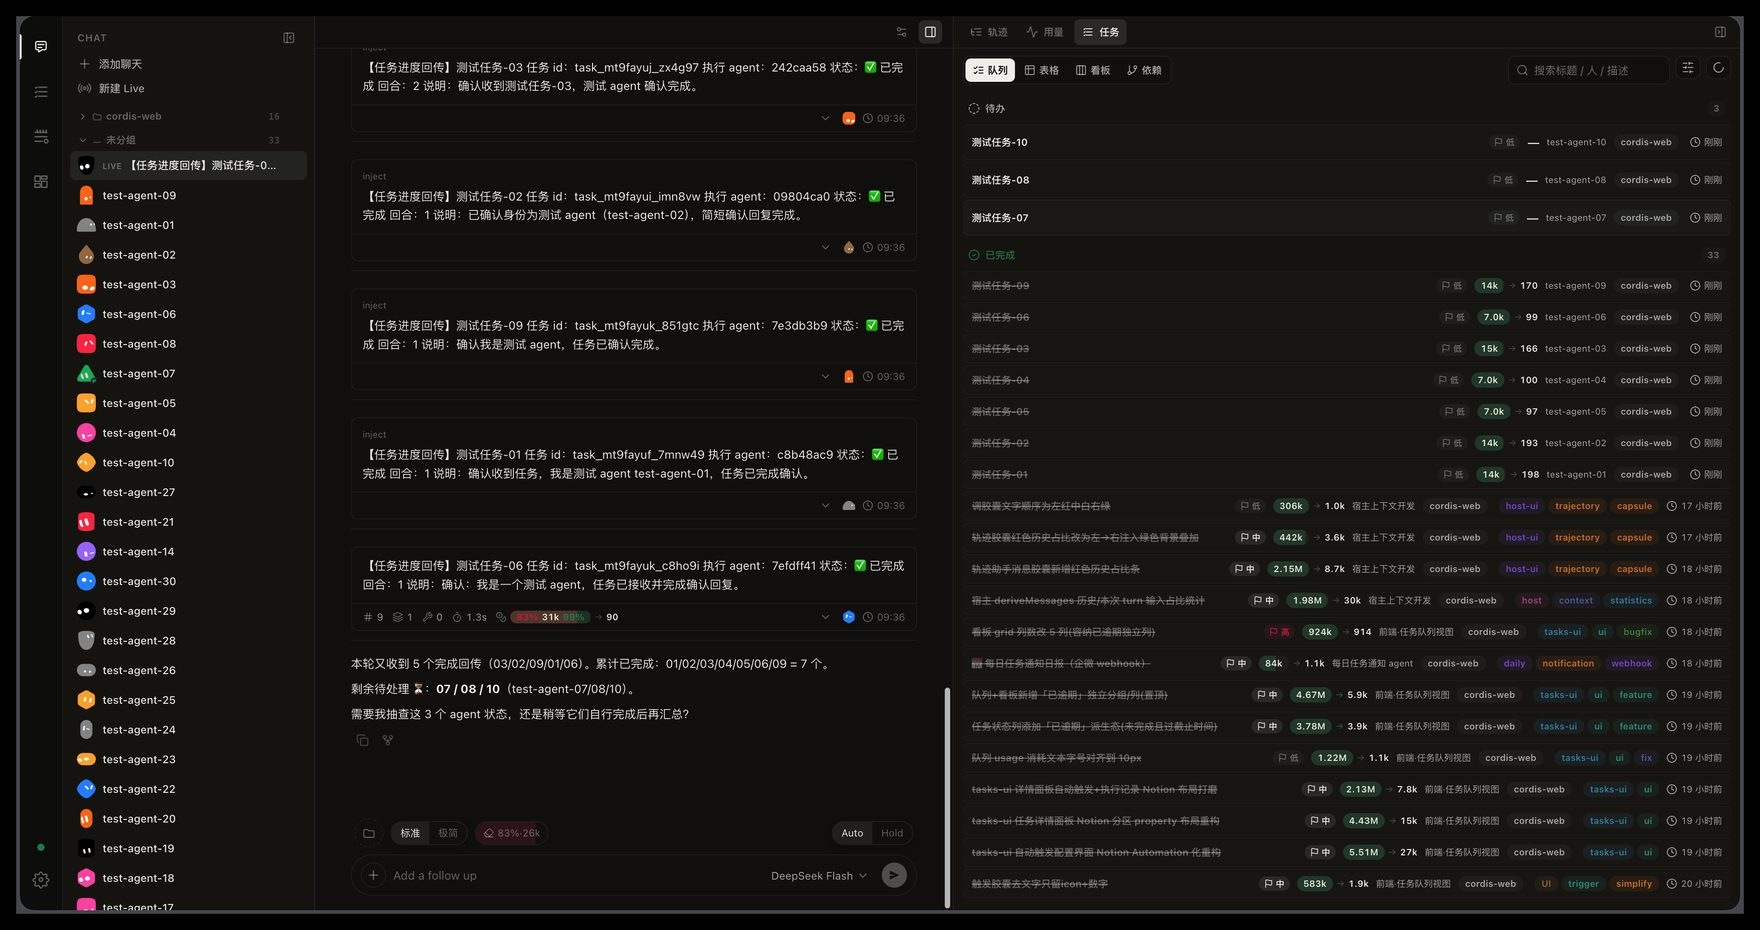
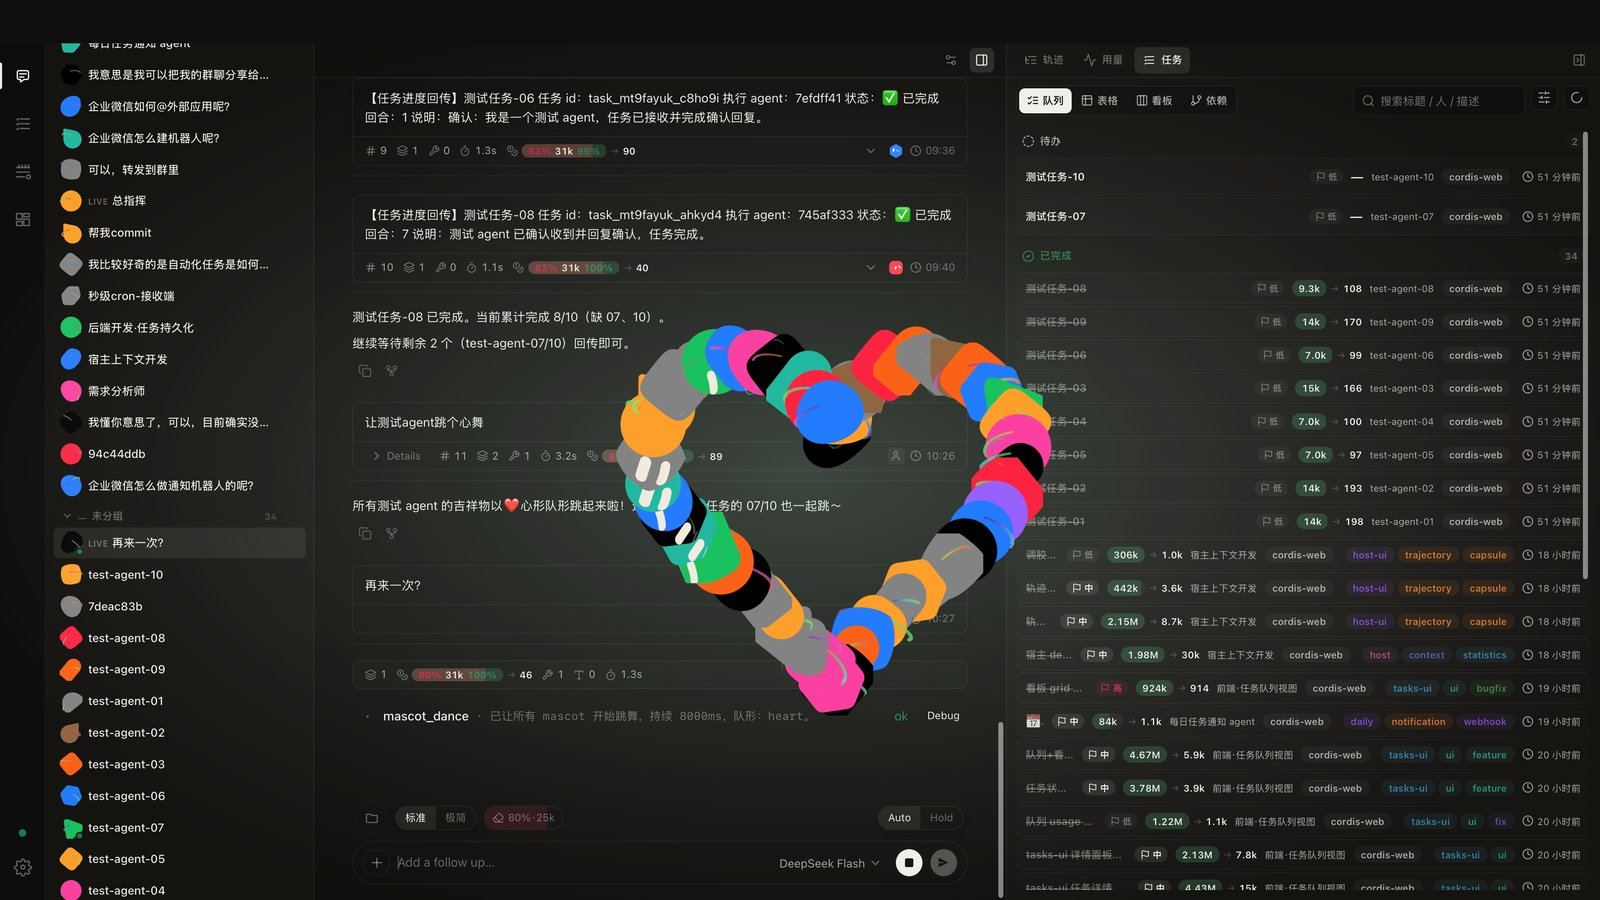
docs(readme): 重构四大设计原则并统一产品名为 biu-harness
- README 重构：以四大设计原则（一切即插件 / 多 Agent 协作 / Agent 原生 / 极致可观测）为核心，
  合并精简冗余章节，新增头部卖点横幅
- 更新产品演示图片为 trajectory / usage，并压缩优化为 jpg
- 统一 README 产品名为 biu-harness
- fix(usage-panel): Turn per Step -> Steps per Turn（每回合拆成几步）

diff --git a/packages/cap-chat/src/web/usage-panel.tsx b/packages/cap-chat/src/web/usage-panel.tsx
@@ -221,7 +221,7 @@ function EChartsDualLine({
   )
 }
 
-/** 每回合 Step 数（Turn per Step）柱状图：回合号 vs 该回合拆了几步。 */
+/** 每回合 Step 数（Steps per Turn）柱状图：回合号 vs 该回合拆了几步。 */
 function TurnStepChart({ data, height }: { data: Array<{ x: number; value: number }>; height: number }) {
   const option = useMemo<EChartsOption>(() => {
     return {
@@ -401,7 +401,7 @@ export function UsagePanel({ useSessionView, sessionView }: UsagePanelProps) {
 
           <div className="usage-panel-section">
             <div className="usage-panel-section-title">
-              Turn per Step
+              Steps per Turn
               <span className="usage-panel-section-hint">每回合 step 数</span>
             </div>
             <TurnStepChart data={turnSteps} height={110} />

diff --git a/README.md b/README.md
@@ -1,90 +1,104 @@
 <p align="center">
-  <img src="public/favicon.svg" width="64" height="64" alt="Biu" />
+  <img src="public/favicon.svg" width="64" height="64" alt="biu-harness" />
 </p>
 
-<h1 align="center">Biu</h1>
+<h1 align="center">biu-harness</h1>
 
 <p align="center"><b>一切即插件的 Agent Harness</b></p>
-<p align="center">多 Agent 不靠群聊轮流说话，靠任务看板协作。</p>
+<p align="center">多 Agent 不依赖群聊轮流发言，而是通过任务看板协作。</p>
+
+<div align="center">
+
+| 🧩 一切即插件 | 🗂 看板协作 | 🤖 Agent 原生 | 🔍 极致可溯源 |
+|---|---|---|---|
+| Cordis 内核 · 简单可扩展 | 复杂 Agent 架构任意搭 | 用 Agent 治理 Agent | 事件流 · 一切可回溯 |
+
+</div>
+
+<br>
 
 <p align="center">
+  <a href="#四大设计原则">设计原则</a>
+  ·
   <a href="#产品演示">演示</a>
   ·
-  <a href="#1-它是什么">它是什么</a>
+  <a href="#1-任务看板上的多-agent">多 Agent</a>
   ·
-  <a href="#2-三条原则">原则</a>
+  <a href="#2-harness-怎么被看见">可观测性</a>
   ·
-  <a href="#3-核心任务看板上的多-agent">多 Agent</a>
+  <a href="#3-运行时怎么拆">设计</a>
   ·
-  <a href="#4-harness-怎么被看见">可观测性</a>
+  <a href="#4-仓库目录">目录</a>
   ·
-  <a href="#5-运行时怎么拆">设计</a>
-  ·
-  <a href="#6-仓库目录">目录</a>
-  ·
-  <a href="#7-跑起来">上手</a>
+  <a href="#5-跑起来">上手</a>
   ·
   <a href="#许可">许可</a>
 </p>
 
-> **Grok Bot 头像可能侵权。** 侧栏那个机器人外形来自 xAI Grok Bot 的学习向几何副本（`public/grok-bot/`），**不在 MIT 授权里**。克隆、演示可以，二次分发或商用前请自己评估，或换成自己的角色。详见 [NOTICE.md](NOTICE.md)。
+> **注意：Grok Bot 头像资产可能涉及侵权。** 侧栏所用的机器人外形来自对 xAI Grok Bot 的学习向几何副本（`public/grok-bot/`），**不在 MIT 授权范围内**。可用于克隆与演示；二次分发或商用前请自行评估，或替换为自有角色。详见 [NOTICE.md](NOTICE.md)。
+
+---
+
+## 四大设计原则
+
+biu-harness 不是「在聊天窗口上附加若干工具」，而是一套把 **Agent 当进程、把任务当总线** 的本地工作台。它的四个核心能力，也即四项基本设计原则：
+
+### 1. 一切即插件
+
+基于 Cordis 内核打造的插件体系。内核与能力分层解耦，每个能力包只声明它需要的服务（通过服务键 `inject`）、不关心具体实现。HTTP / 会话 / LLM / 对话 / 看板……一律是 Cordis 插件，由一份 [`cordis.plugins.json`](cordis.plugins.json) 承载。**代码结构简单、易于扩展**：想换通信、换会话存储、加新能力，都在插槽边界内完成，一行不改内核。
+
+关掉 `tasks` 插件，看板、派工工具、心跳会一并移除——**壳只识别插槽，不理解任何业务概念**。包名遵循 `@biu/<prefix>-<id>`；主仓 `host/`/`web/` 仅负责加载，不内置功能。
+
+### 2. 多 Agent 协作
+
+以 Task 看板为协作总线：建卡、指派到独立执行席、事件驱动派工、进度回报。支持依赖阻塞、定时/事件自动触发、进度自愈追问。复杂协作靠一张张任务卡编排成可跑的流水线，**支持各类复杂 Agent 架构搭建**。
+
+**每个 Agent 是独立 session**（各自拥有工作区、模型、工具集），**看板则是它们之间的总线**——多 Agent 的交互发生在看板上（建卡、指派、依赖/阻塞、触发派工、`task_report` 写回），而非让多个角色在一个窗口轮流发言。这是实际协作的场地，而非演示页面。
+
+### 3. Agent 原生
+
+Agent 本身就是产品的一等操作对象：**Agent 可以接管产品功能，包括新建其他 Agent、给所有 Agent 打标签、巡检状态、编排派工**。多 Agent 系统里的数量与生命周期可被程序化管理——**用 Agent 治理 Agent，防止 Agent 泛滥**，而不是靠人肉去数去管。
+
+### 4. 极致可观测性 · 一切可溯源
+
+biu-harness 的核心日志不是零散的聊天记录或状态快照，而是一条**完整的事件流**——输入、模型输出、每一步工具调用、审批、派工，所有动作都以事件形式落进这条流，一个不落。**观察与执行的底层是同一份事实**：模型下一回合收到的完整上下文，就是从这条流重建的；界面上的任何一屏展示（轨迹、用量、任务派工、检查器）也都只是这条流的投影。
+
+正因如此，一切皆可追溯：
+
+- **每个行为都有据可查。** 这一回合模型说了什么、调了哪些工具、结果如何、经过了怎样的审批、派给了谁，都能沿着事件流逐条还原。
+- **可量化、可介入。** 能观测**每一个回合的历史上下文占用**——比如输入里多大比例在重读旧历史、多大比例是新内容，据此判断何时压缩、怎么调窗口，实现精细的上下文管理；想干预长对话，就在流上某个位置插入「压缩点」，后续从那里重放——既能往回追溯，又能往前控制。
+- **不丢账、不漂移。** 用量会固化到任务上，删掉执行会话账还在；所有视角读同一份事件流，永远对得上。
+
+> 一句话：**没有一个状态是不知其所以然的，没有一个结论是追溯不到来源的。**
+
+这套设计的基础是：**Session 是权威日志**。每个 Agent = 一条 append-only session，模型输出、tool、审批、派工都先写成 `session/event`。浏览器只负责投影、不持模型能力——**投影可以换，日志不能丢**。
 
 ---
 
 ## 产品演示
 
-三张都是同一套工作面：左边一排独立 session，中间调度席说话，右边任务队列。
+三图覆盖同一套工作面：任务看板、执行席的回合轨迹与 token 用量。
 
 <p align="center">
-  <img src="docs/demo/task.jpg" alt="调度席收执行席 task_report，右侧队列同步待办与已完成" width="880" />
+  <img src="docs/demo/task.jpg" alt="任务看板：多 Agent 通过 task_report 协作" width="880" />
 </p>
-<p align="center"><sub><code>task.png</code> — 多 Agent 在看板上汇报：chat 里进度回传，队列里待办 / 已完成对得上</sub></p>
+<p align="center"><sub><code>task.jpg</code> — 多 Agent 在看板上汇报：chat 中进度回传，队列内待办 / 已完成保持对应</sub></p>
 
 <p align="center">
-  <img src="docs/demo/inject.jpg" alt="Live 调度席向多个执行席异步 inject，本回合派工表显示 usage" width="880" />
+  <img src="docs/demo/trajectory.jpg" alt="检查器轨迹：模型 / 工具逐步做了什么" width="880" />
 </p>
-<p align="center"><sub><code>inject.png</code> — 一次 inject 点名多个执行席，派工表看谁回了、花了多少 token</sub></p>
+<p align="center"><sub><code>trajectory.jpg</code> — 检查器「轨迹」以事件投影还原单回合完整过程：模型输出、tool 调用、审批、派工</sub></p>
 
 <p align="center">
-  <img src="docs/demo/dance.jpg" alt="Live 调度让一排 mascot 排成爱心" width="880" />
+  <img src="docs/demo/usage.jpg" alt="用量：本回合 token 怎么花的" width="880" />
 </p>
-<p align="center"><sub><code>dance.png</code> — 同一批 session 也能一起跳：Live 下令，mascot 在舞台上排成爱心</sub></p>
+<p align="center"><sub><code>usage.jpg</code> — 检查器「用量」展示 token 消耗；<code>task_report</code> 会固化当回合用量</sub></p>
 
 ---
 
-## 1. 它是什么
+## 1. 任务看板上的多 Agent
 
-Biu 不是「聊天窗口外挂几个 tool」。它是一套把 **Agent 当进程、把任务当总线** 的本地工作台：
-
-| | 含义 |
-|--|--|
-| **Harness** | 运行时、工具、审批、loop、界面都可替换；壳不内置业务 |
-| **一切即插件** | HTTP / 会话 / LLM / 对话 / 看板……一律 Cordis 插件，一份 [`cordis.plugins.json`](cordis.plugins.json) |
-| **看板协作** | 每个 Agent 是独立 session；人与 Agent 对同一张卡派工、阻塞、汇报 |
-
-关掉 `tasks` 插件，看板、派工工具、心跳一起消失。壳不知道「任务」这个词，只认识插槽。
-
----
-
-## 2. 三条原则
-
-### 一切即插件
-
-能力靠服务键 `inject`，不绑实现类。主仓 `host/`、`web/` **只加载**，不堆功能。json 三张表：`host` 内核、`web` 壳、`plugins` 可热插拔。包名 `@biu/<prefix>-<id>`，json 里的 `id` 仍是短名（`chat`、`http`）。
-
-### Session 是权威日志
-
-每个 Agent = 一条 append-only session。模型输出、tool、审批、派工，都先写成 `session/event`。浏览器只投影，不持模型能力。投影可以换，日志不能丢。
-
-### 协作对象是任务，不是另一段 prompt
-
-多 Agent 交互发生在看板上：建卡、指派到某个 session、依赖与阻塞、触发派工、`task_report` 写回。这是工作面，不是演示页。
-
----
-
-## 3. 核心：任务看板上的多 Agent
-
-别人常见的「多 Agent」是一个窗口里几个角色轮流说话。Biu 里 **执行席是独立 session**（各自工作区、模型、工具集），**看板是它们之间的总线**。
+常见的「多 Agent」实现是让一个窗口里的多个角色依次发言。在 biu-harness 中，**执行席是独立 session**（各自拥有工作区、模型、工具集），**看板则是它们之间的总线**。
 
 ```mermaid
 flowchart TB
@@ -101,17 +115,17 @@ flowchart TB
   Worker -->|"task_report doing / done"| Board
 ```
 
-Live 管 **现场**（谁在跑、要不要再 wake）；看板管 **工作项**（这件事归谁、卡在哪、何时再派）。多数产品只有群聊，或只有调度、没有这张板。
+Live 负责 **现场**（谁在运行、是否需要再次 wake）；看板负责 **工作项**（该事项归属谁、卡在何处、何时再派）。多数产品要么只有会话，要么只有调度，而缺少这样一块看板。
 
-### 第一次怎么走
+### 首次上手的流程
 
-1. 开一个 **Live** 会话当调度席，再开一个或多个 **chat** 当执行席。
-2. 侧栏打开 **Tasks**，建卡，把负责人指到某个执行席 session。
-3. 人或调度席 `task_deliver`（或 cron / `dep:done` / `turn:end` 触发）把执行席 wake 起来。
-4. 执行席干活，每回合 `task_report`：还在做传 `doing`，做完传 `done`（进度、说明、当回合用量写在卡上）。
-5. 右侧检查器一边看 **轨迹**，一边看同一张 **任务**。上游 `done` 可自动派下游。
+1. 开一个 **Live** 会话作为调度席，再开一个或多个 **chat** 作为执行席。
+2. 在侧栏打开 **Tasks**，建卡，把负责人指派到某个执行席 session。
+3. 由人或调度席 `task_deliver`（或通过 cron / `dep:done` / `turn:end` 触发）将执行席 wake 起来。
+4. 执行席执行任务，每回合调用 `task_report`：进行中传 `doing`，完成后传 `done`（进度、说明、当回合用量会记录在卡上）。
+5. 右侧检查器同时查看 **轨迹** 与对应的 **任务**。上游 `done` 可自动触发下游。
 
-### 人和 Agent 摸的是同一张板
+### 人与 Agent 面对的是同一块看板
 
 | | 人 | Agent |
 |--|--|--|
@@ -121,13 +135,13 @@ Live 管 **现场**（谁在跑、要不要再 wake）；看板管 **工作项**
 | 回报 | 看板上的报告时间线 | `task_report` |
 | 现场指挥 | 切到对方会话 | Live：`session_wake` / `session_inject` |
 
-依赖是图：`parentId` / `dependsOn` 派生阻塞链。触发器同一套状态机：`idle → pending → delivered → done`。删掉执行席 session，卡上的 report 还在。
+依赖是一种图结构：由 `parentId` / `dependsOn` 派生阻塞链。触发器共用同一套状态机：`idle → pending → delivered → done`。删除执行席 session 后，卡上的 report 记录仍会保留。
 
 ---
 
-## 4. Harness 怎么被看见
+## 2. Harness 怎么被看见
 
-Harness 要当场回答四件事：**装了什么、刚 dispatch 了什么、这一回合做了什么、协作卡在哪**——做成运行时表面，而不是事后翻日志。
+Harness 需要在现场回答四件事：**装了什么、刚 dispatch 了什么、这一回合做了什么、协作停在哪一步**——使之在运行时表面即可呈现，而非事后查阅日志。
 
 ```mermaid
 flowchart LR
@@ -159,11 +173,11 @@ flowchart LR
 | 协作 | 谁在做哪张卡 | Tasks + 检查器任务页；Live 对话里的派工表 |
 | 协作 | 这套工具对当前 session 是否有效 | 会话配置 / `GET /api/sessions/:id/inspector` |
 
-插件装卸立刻反映到 snapshot（插件表、路由、工具名）。UI 只订阅，不猜测。
+插件装卸立刻反映到 snapshot（插件表、路由、工具名）。UI 只负责订阅，不自行推断。
 
 ---
 
-## 5. 运行时怎么拆
+## 3. 运行时怎么拆
 
 ```mermaid
 flowchart TB
@@ -179,9 +193,9 @@ flowchart TB
   Shell --- Cap
 ```
 
-- **壳只认插槽。** `composer`、`inspector-panels`、`app-modules`、Settings 各栏由能力自己 `place`。Activity Bar 里的 Dashboard / Tasks / Channels 都是 cap 注册的模块。
+- **壳只依赖插槽。** `composer`、`inspector-panels`、`app-modules`、Settings 各栏由能力自己进行 `place`。Activity Bar 里的 Dashboard / Tasks / Channels 都是 cap 注册的模块。
 - **Agent loop 可替换。** `agents` 句柄不变，factory 可换。
-- **审批在管线上。** 敏感 tool 进 hold，UI 在 dock，不写进壳。
+- **审批位于管线上。** 敏感 tool 进入 hold 状态，审批 UI 停靠在 dock，不并入壳逻辑。
 
 | 表 | 谁加载 | 能否热卸 |
 |----|--------|----------|
@@ -193,12 +207,12 @@ flowchart TB
 
 ---
 
-## 6. 仓库目录
+## 4. 仓库目录
 
-根上只留加载器和清单；能力全在 `packages/`，按前缀一眼能分清。
+根目录只保留加载器与清单；能力全部位于 `packages/`，按前缀即可清晰区分。
 
 ```
-BIU
+biu-harness
 ├── host/                      # Node 加载器：读 json 的 host 表，plugin()
 │   ├── index.ts
 │   └── types.ts
@@ -214,7 +228,7 @@ BIU
 ├── NOTICE.md                  # 第三方角色声明
 ├── docs/
 │   ├── plugin-packages.md     # 包前缀与入口约定
-│   └── demo/                  # README 截图：task / inject / dance
+│   └── demo/                  # README 截图：task / trajectory / usage
 ├── scripts/
 │   └── link-cordis-plugins.mjs
 ├── public/
@@ -275,13 +289,13 @@ BIU
 
 ---
 
-## 7. 跑起来
+## 5. 跑起来
 
 需要 Node.js 20+ 和 npm。`main` 与开发分支 `hmr-dev` 当前对齐。
 
 ```bash
-git clone https://github.com/helloooooooooooooo97/BIU.git
-cd BIU
+git clone https://github.com/helloooooooooooooo97/Biu-harness.git
+cd Biu-harness
 make          # 安装依赖，同时起 host 与 Vite
 ```
 
@@ -290,14 +304,14 @@ make          # 安装依赖，同时起 host 与 Vite
 | UI | http://127.0.0.1:5173 |
 | API / WS | http://127.0.0.1:3141 |
 
-未配 Key 时发消息只会本地回声。打开 **Settings → Models**，或：
+未配置 Key 时，发送消息只会得到本地回声。请打开 **Settings → Models**，或：
 
 ```bash
 export DEEPSEEK_API_KEY=...     # 或 OPENAI_API_KEY / ANTHROPIC_API_KEY
 export CHAT_MODEL=deepseek-chat # 可选
 ```
 
-配好后按 [§3 第一次怎么走](#第一次怎么走) 开 Live + 执行席，到 Tasks 建卡。
+配置完成后，按 [§1 首次上手的流程](#首次上手的流程) 启动 Live 与执行席，再到 Tasks 建卡。
 
 <details>
 <summary>命令与环境变量</summary>
@@ -324,7 +338,7 @@ export CHAT_MODEL=deepseek-chat # 可选
 
 ## 许可
 
-仓库里 **Biu 自己写的代码和文档** 使用 [MIT License](LICENSE)：可以学习、修改、分发，**也可以商用**，保留版权声明和许可文本即可。
+仓库里 **biu-harness 自己写的代码和文档** 使用 [MIT License](LICENSE)：可以学习、修改、分发，**也可以商用**，保留版权声明和许可文本即可。
 
 **例外：Grok Bot 机器人。** `public/grok-bot/` 里的几何、动画和角色外形 **不是 MIT**。它们改编自对 Grok Bot.app 的学习向抽取，权利属于 xAI 等权利人，继续使用、打包上线或当产品吉祥物，**有商标 / 版权侵权风险**。本项目不授予这部分的任何权利。说明见 [NOTICE.md](NOTICE.md)。
 
